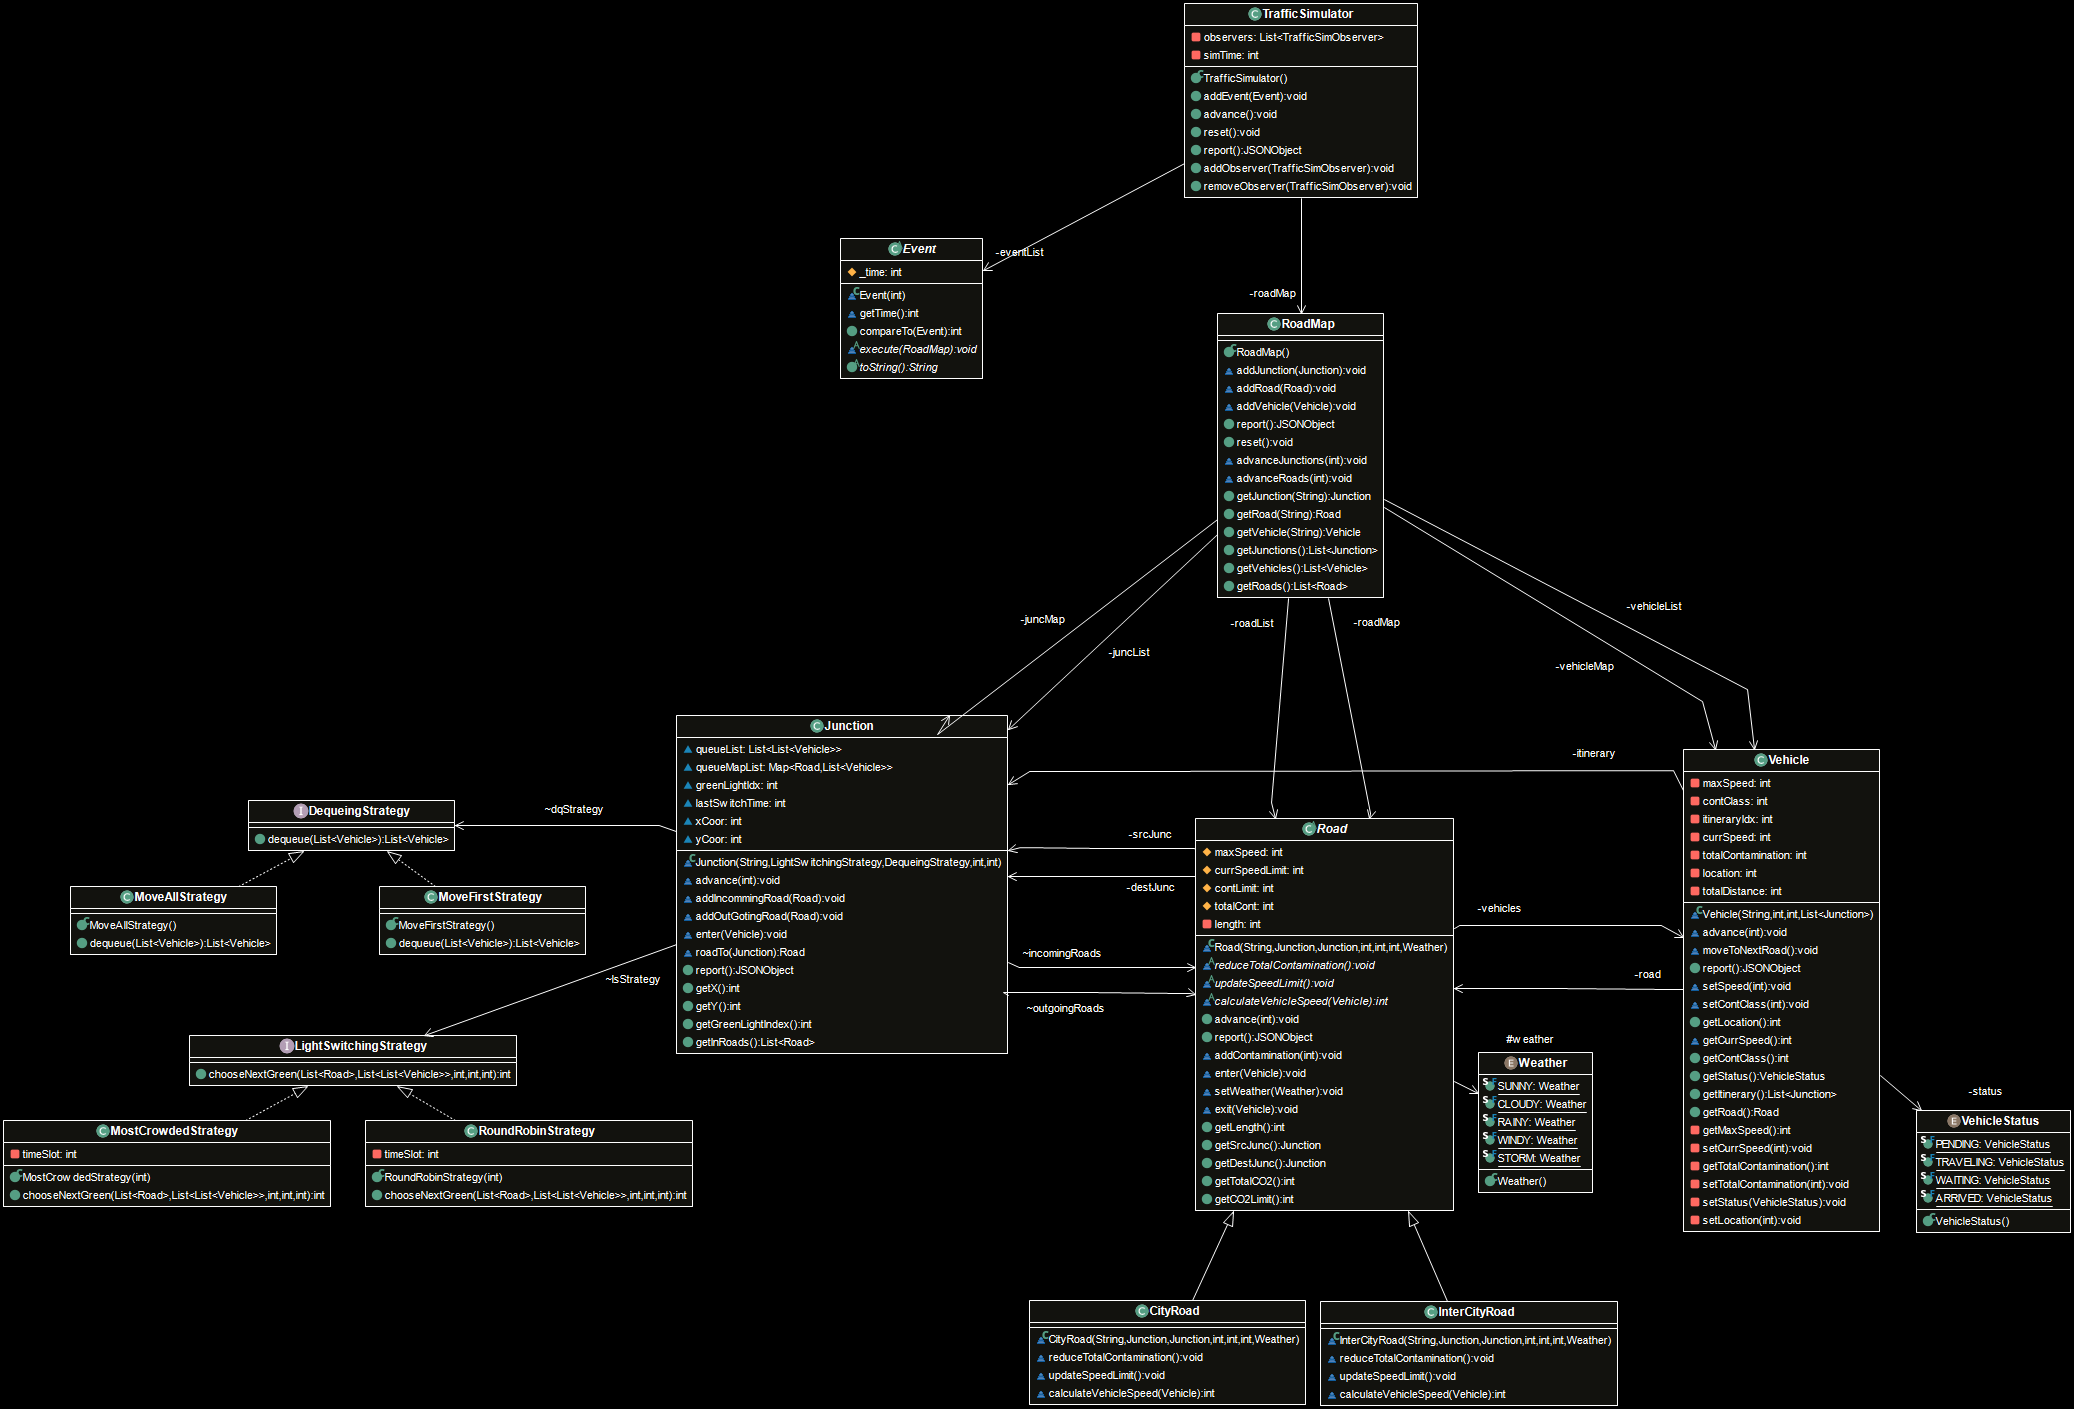
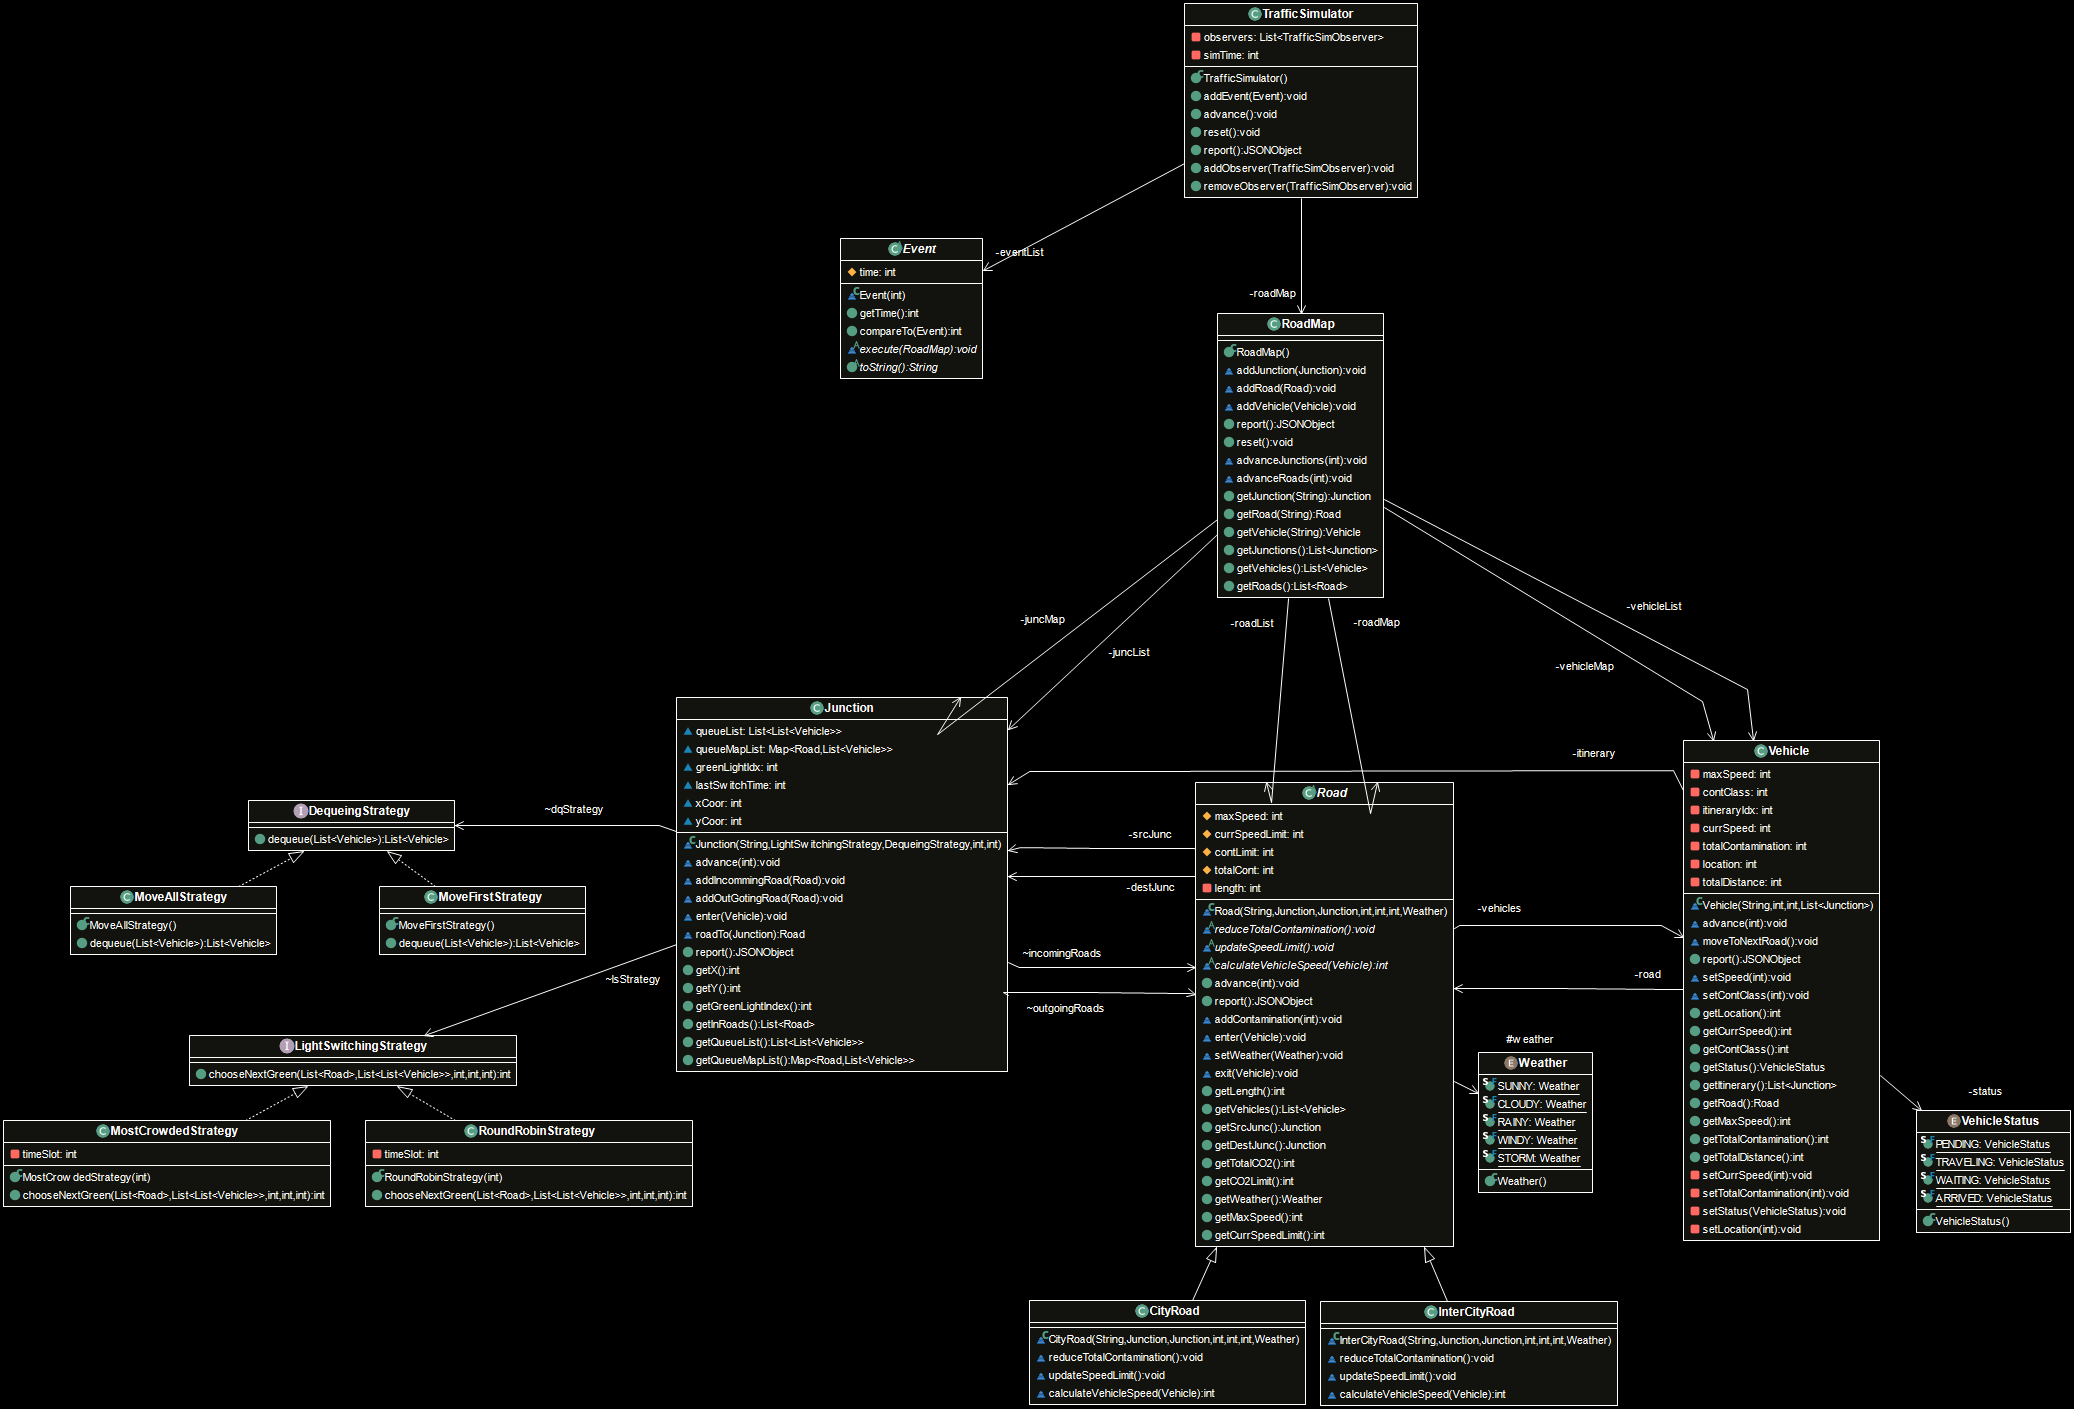
Vehicles drawn in RoadByMap

Changed region(s): [[0.8023, 0.5309, 0.8949, 0.8744], [0.5554, 0.5621, 0.6789, 0.9056], [0.3086, 0.4996, 0.4937, 0.7807]]

diff --git a/src/simulator/view/MapByRoadComponent.java b/src/simulator/view/MapByRoadComponent.java
@@ -57,6 +57,7 @@ public class MapByRoadComponent extends JPanel implements TrafficSimObserver {
 	private static final int _IN_BETWEEN_VERT_MARGINS = 50;	
 	
 	private static final int _IMAGE_SIZE = 32;	
+	private static final int _CAR_SIZE = 16;	
 	private static final int _JUNC_RADIUS = 10;
 
 	
@@ -170,6 +171,15 @@ public class MapByRoadComponent extends JPanel implements TrafficSimObserver {
 		drawLineWithArrow(g, leftJuncX, leftJuncY, rightJuncX, rightJuncY, 
 				15, 5, Color.BLUE, Color.ORANGE);	
 		
+		// draw the vehicles
+		for (Vehicle v : road.getVehicles()) {
+			int carPosX = leftJuncX + (int) ((rightJuncX - leftJuncX) *
+					( (double) v.getLocation() / (double) road.getLength() ) );
+			int carPosY = leftJuncY  - _JUNC_RADIUS / 2;
+			
+			g.drawImage(_car, carPosX, carPosY - 6, _CAR_SIZE, _CAR_SIZE, this);
+			g.drawString(v.getId(), carPosX, carPosY - 6);			
+		}
 		
 		// choose a color for the right junction's circle depending on the traffic light of the road
 		Color rightJuncColor = _RED_LIGHT_COLOR;

diff --git a/src/simulator/model/Road.java b/src/simulator/model/Road.java
@@ -145,6 +145,10 @@ public  abstract class Road extends SimulatedObject {
 	public int getLength() {
 		return length;
 	}
+	
+	public List<Vehicle> getVehicles(){
+		return Collections.unmodifiableList(vehicles);
+	}
 
 	public Junction getSrcJunc() {
 		return srcJunc;
